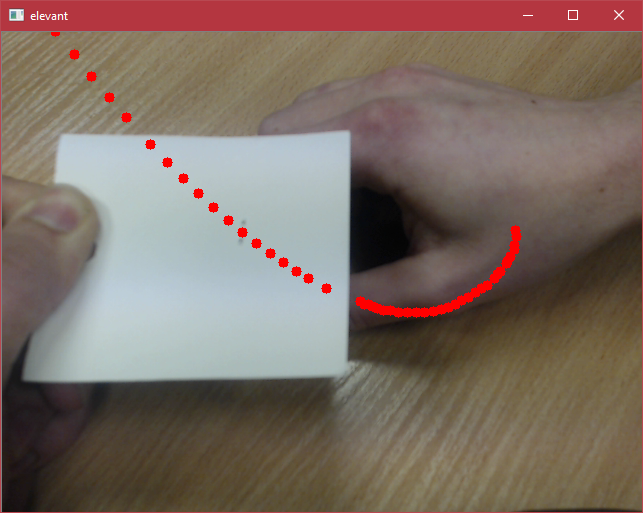
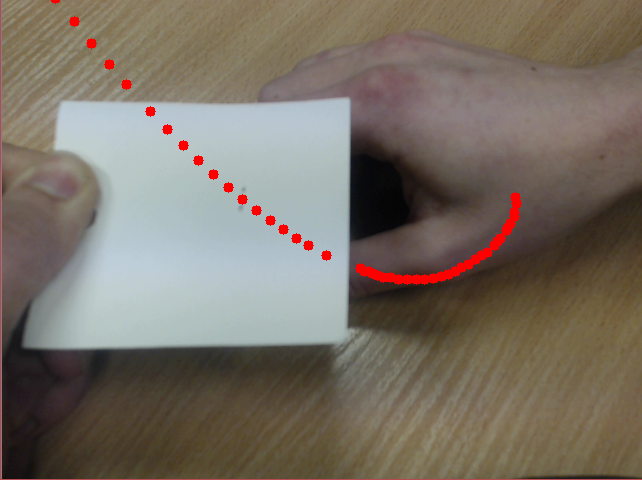
working contour detection

Changed region(s): [[0.0, 0.0, 1.0, 1.0], [0.0, 0.625, 0.6854, 0.7812], [0.7165, 0.1875, 0.7477, 0.2188]]

diff --git a/src/test_tracker.py b/src/test_tracker.py
@@ -20,7 +20,7 @@ def detect_contours(frame, HSV_lower, HSV_upper):
         else:
             center = (int(M["m10"] / M["m00"]), int(M["m01"] / M["m00"]) )
 
-        cv2.circle(mask, center, 5, (0, 0, 255), -1)
+        #cv2.circle(mask, center, 5, (0, 0, 255), -1)
 
         print(M["m00"])
 
@@ -34,7 +34,7 @@ if __name__ == '__main__':
         ret, frame = capture.read()
         cv2.imshow('frame', frame)
 
-        center,mask = detect_contours(frame, (30,90,90), (40,220,220))
+        center,mask = detect_contours(frame, (30,50,50), (40,255,255))
 
         print(center)
         cv2.imshow('mask', mask)
